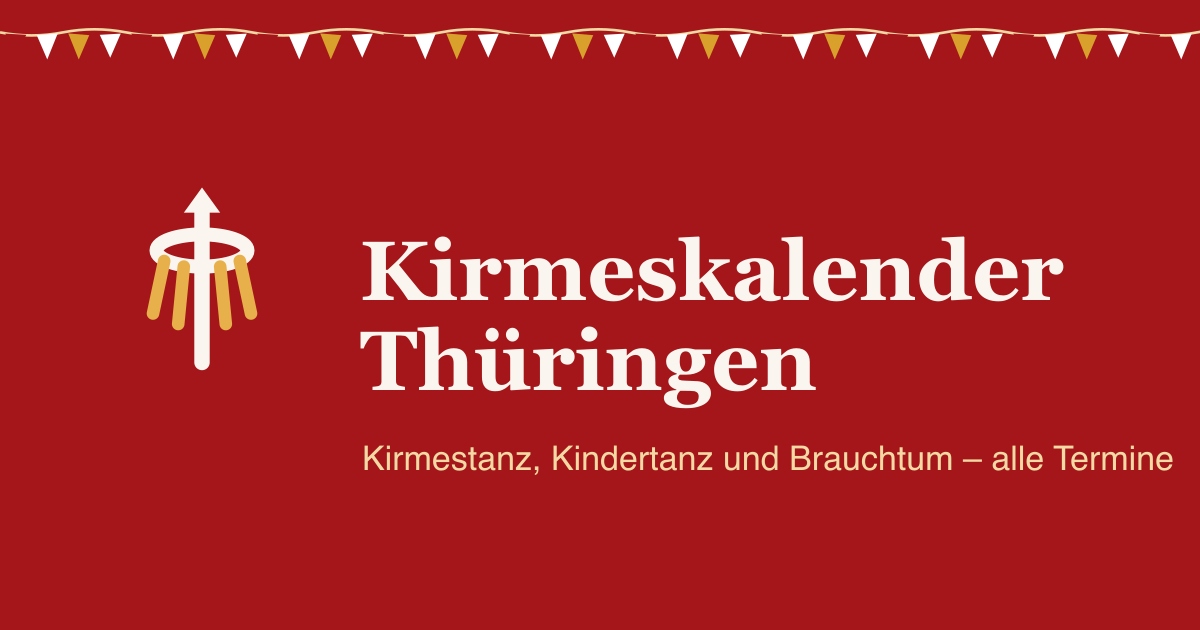
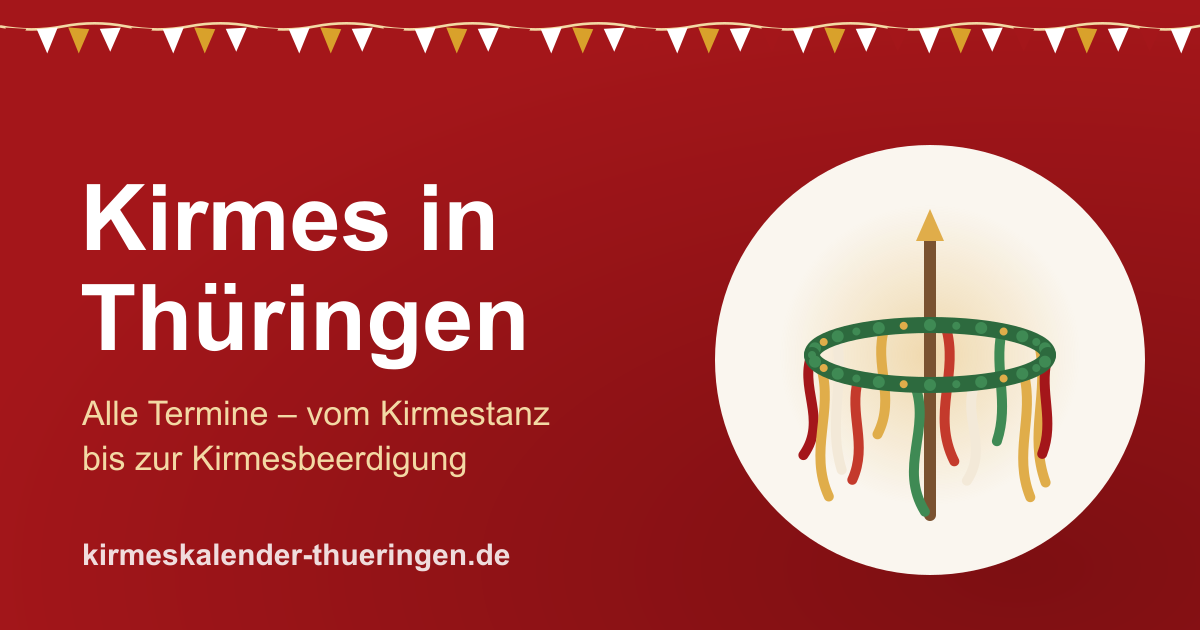
feat(web): Vorschaubild beim Teilen in Arial mit Kirmesbaum (#369)
og.png neu im Stil der Startseite; Vorschaubild je Termin und Wochenbild
in Arial statt Serifenschrift. Im Container rendert Liberation Sans
(maßgleich zu Arial).

Closes #368

diff --git a/apps/web/src/lib/vorschaubild.ts b/apps/web/src/lib/vorschaubild.ts
@@ -11,6 +11,8 @@ const MASKE: Record<string, string> = {
   '"': '&quot;',
   "'": '&apos;',
 };
+/** Arial wie die Website; im Container die maßgleiche Liberation Sans (Issue #368) */
+const SCHRIFT = 'Arial, Liberation Sans, DejaVu Sans, sans-serif';
 const xml = (s: string) => s.replace(/[&<>"']/g, (c) => MASKE[c] ?? c);
 
 /** Zeilen umbrechen nach ungefährer Zeichenzahl; zu Langes wird mit „…“ gekürzt. */
@@ -47,16 +49,16 @@ export function vorschauSvg(d: BildDaten): string {
   return `<svg xmlns="http://www.w3.org/2000/svg" width="1200" height="630" viewBox="0 0 1200 630">
   <rect width="1200" height="630" fill="#faf6ef"/>
   <rect width="1200" height="110" fill="#a4161a"/>
-  <text x="70" y="72" font-family="DejaVu Sans, Helvetica, Arial, sans-serif" font-size="38" font-weight="700" fill="#ffffff">Kirmeskalender Thüringen</text>
-  <text x="70" y="${titelY - 100}" font-family="DejaVu Sans, Helvetica, Arial, sans-serif" font-size="30" font-weight="700" fill="#a4161a">${xml(d.art.toUpperCase())}</text>
+  <text x="70" y="72" font-family="${SCHRIFT}" font-size="38" font-weight="700" fill="#ffffff">Kirmeskalender Thüringen</text>
+  <text x="70" y="${titelY - 100}" font-family="${SCHRIFT}" font-size="30" font-weight="700" fill="#a4161a">${xml(d.art.toUpperCase())}</text>
   ${titel
     .map(
       (z, i) =>
-        `<text x="70" y="${titelY + i * 86}" font-family="DejaVu Serif, Georgia, serif" font-size="76" font-weight="700" fill="#211a14">${xml(z)}</text>`,
+        `<text x="70" y="${titelY + i * 86}" font-family="${SCHRIFT}" font-size="76" font-weight="700" fill="#211a14">${xml(z)}</text>`,
     )
     .join('\n  ')}
-  <text x="70" y="${titelY + titel.length * 86 + 40}" font-family="DejaVu Sans, Helvetica, Arial, sans-serif" font-size="40" fill="#211a14">${xml(d.wann)}</text>
-  <text x="70" y="${titelY + titel.length * 86 + 100}" font-family="DejaVu Sans, Helvetica, Arial, sans-serif" font-size="40" font-weight="700" fill="#5c5249">${xml(d.wo)}</text>
+  <text x="70" y="${titelY + titel.length * 86 + 40}" font-family="${SCHRIFT}" font-size="40" fill="#211a14">${xml(d.wann)}</text>
+  <text x="70" y="${titelY + titel.length * 86 + 100}" font-family="${SCHRIFT}" font-size="40" font-weight="700" fill="#5c5249">${xml(d.wo)}</text>
   <rect y="600" width="1200" height="30" fill="#d4a017"/>
 </svg>`;
 }
@@ -64,7 +66,7 @@ export function vorschauSvg(d: BildDaten): string {
 export function vorschauPng(d: BildDaten): ArrayBuffer {
   const png = new Resvg(vorschauSvg(d), {
     fitTo: { mode: 'width', value: 1200 },
-    font: { loadSystemFonts: true, defaultFontFamily: 'DejaVu Sans' },
+    font: { loadSystemFonts: true, defaultFontFamily: 'Liberation Sans' },
   })
     .render()
     .asPng();

diff --git a/apps/web/src/lib/wochenbild.ts b/apps/web/src/lib/wochenbild.ts
@@ -24,8 +24,8 @@ const xml = (s: string) =>
     /[&<>"']/g,
     (c) => ({ '&': '&amp;', '<': '&lt;', '>': '&gt;', '"': '&quot;' })[c] ?? '&apos;',
   );
-const SANS = 'DejaVu Sans, Helvetica, Arial, sans-serif';
-const SERIF = 'DejaVu Serif, Georgia, serif';
+/** Arial wie die Website; im Container die maßgleiche Liberation Sans (Issue #368) */
+const SANS = 'Arial, Liberation Sans, DejaVu Sans, sans-serif';
 
 export function wochenbildSvg(
   zeitraum: string,
@@ -42,7 +42,7 @@ export function wochenbildSvg(
       const titel = umbrechen(t.titel, 30, 1)[0] ?? '';
       const ort = umbrechen(t.ort, 34, 1)[0] ?? '';
       return `<text x="80" y="${y}" font-family="${SANS}" font-size="30" font-weight="700" fill="#a4161a">${xml(t.wann)}</text>
-  <text x="300" y="${y}" font-family="${SERIF}" font-size="38" font-weight="700" fill="#211a14">${xml(titel)}</text>
+  <text x="300" y="${y}" font-family="${SANS}" font-size="38" font-weight="700" fill="#211a14">${xml(titel)}</text>
   <text x="300" y="${y + 44}" font-family="${SANS}" font-size="30" fill="#5c5249">${xml(ort)}</text>`;
     })
     .join('\n  ');
@@ -51,8 +51,8 @@ export function wochenbildSvg(
   <rect width="1080" height="${hoehe}" fill="#faf6ef"/>
   <rect y="${oben - 120}" width="1080" height="12" fill="#d4a017"/>
   <text x="80" y="${oben}" font-family="${SANS}" font-size="36" font-weight="700" fill="#a4161a">KIRMESKALENDER THÜRINGEN</text>
-  <text x="80" y="${oben + 110}" font-family="${SERIF}" font-size="84" font-weight="700" fill="#211a14">Kirmes am</text>
-  <text x="80" y="${oben + 200}" font-family="${SERIF}" font-size="84" font-weight="700" fill="#211a14">Wochenende</text>
+  <text x="80" y="${oben + 110}" font-family="${SANS}" font-size="84" font-weight="700" fill="#211a14">Kirmes am</text>
+  <text x="80" y="${oben + 200}" font-family="${SANS}" font-size="84" font-weight="700" fill="#211a14">Wochenende</text>
   <text x="80" y="${oben + 260}" font-family="${SANS}" font-size="38" fill="#5c5249">${xml(zeitraum)} · in Thüringen</text>
   ${
     sichtbar.length
@@ -76,7 +76,7 @@ export function wochenbildPng(
 ): ArrayBuffer {
   const png = new Resvg(wochenbildSvg(zeitraum, termine, format), {
     fitTo: { mode: 'width', value: 1080 },
-    font: { loadSystemFonts: true, defaultFontFamily: 'DejaVu Sans' },
+    font: { loadSystemFonts: true, defaultFontFamily: 'Liberation Sans' },
   })
     .render()
     .asPng();
